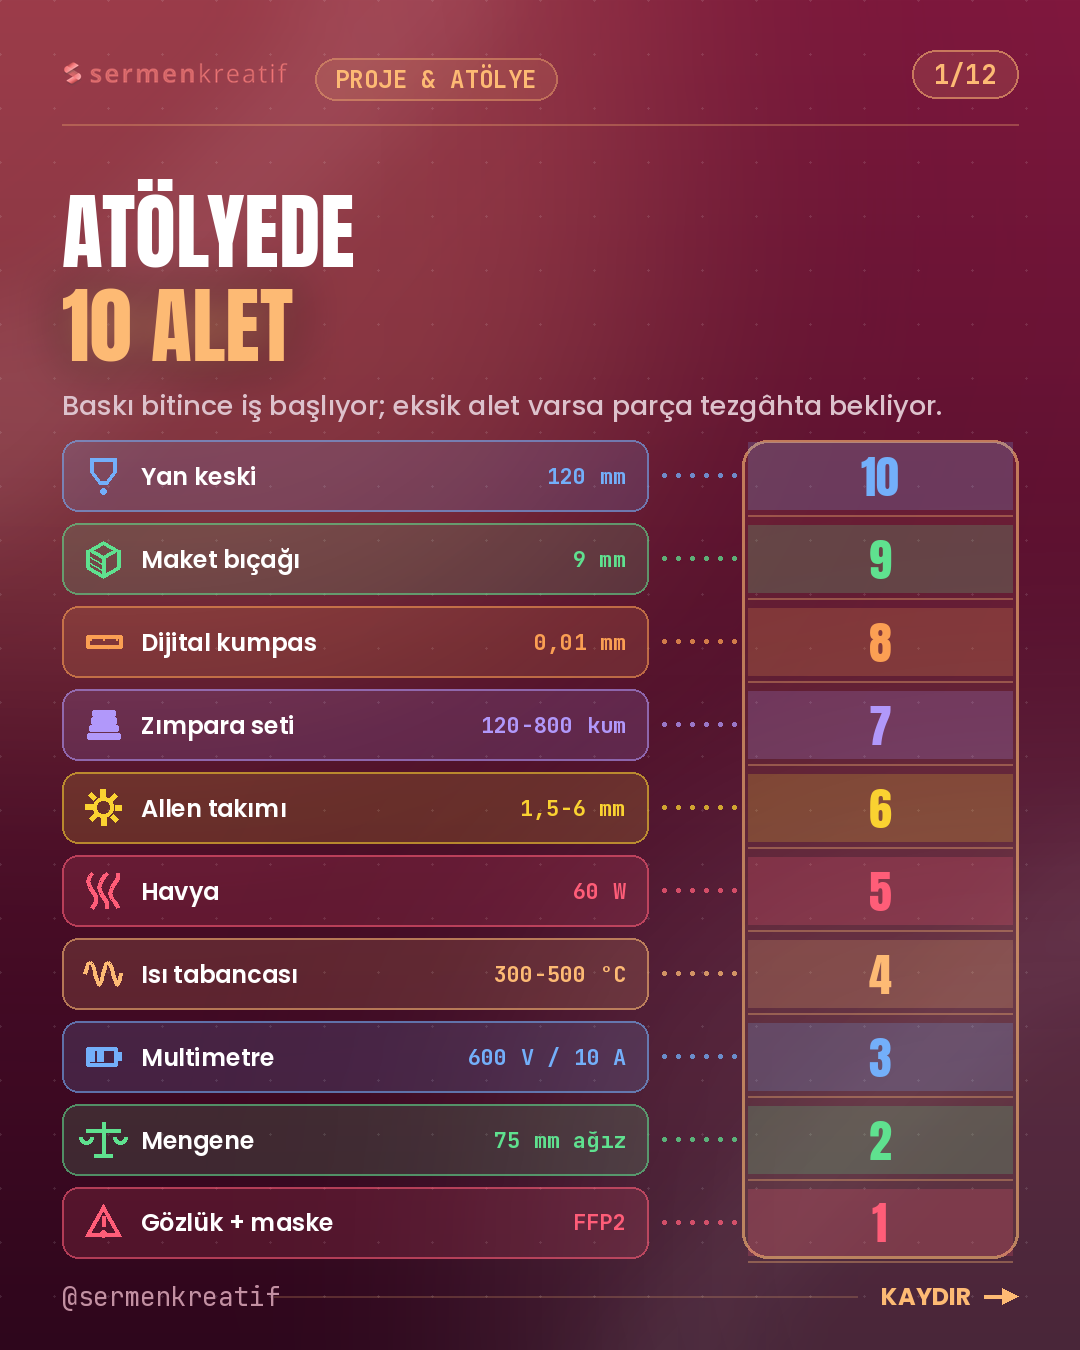
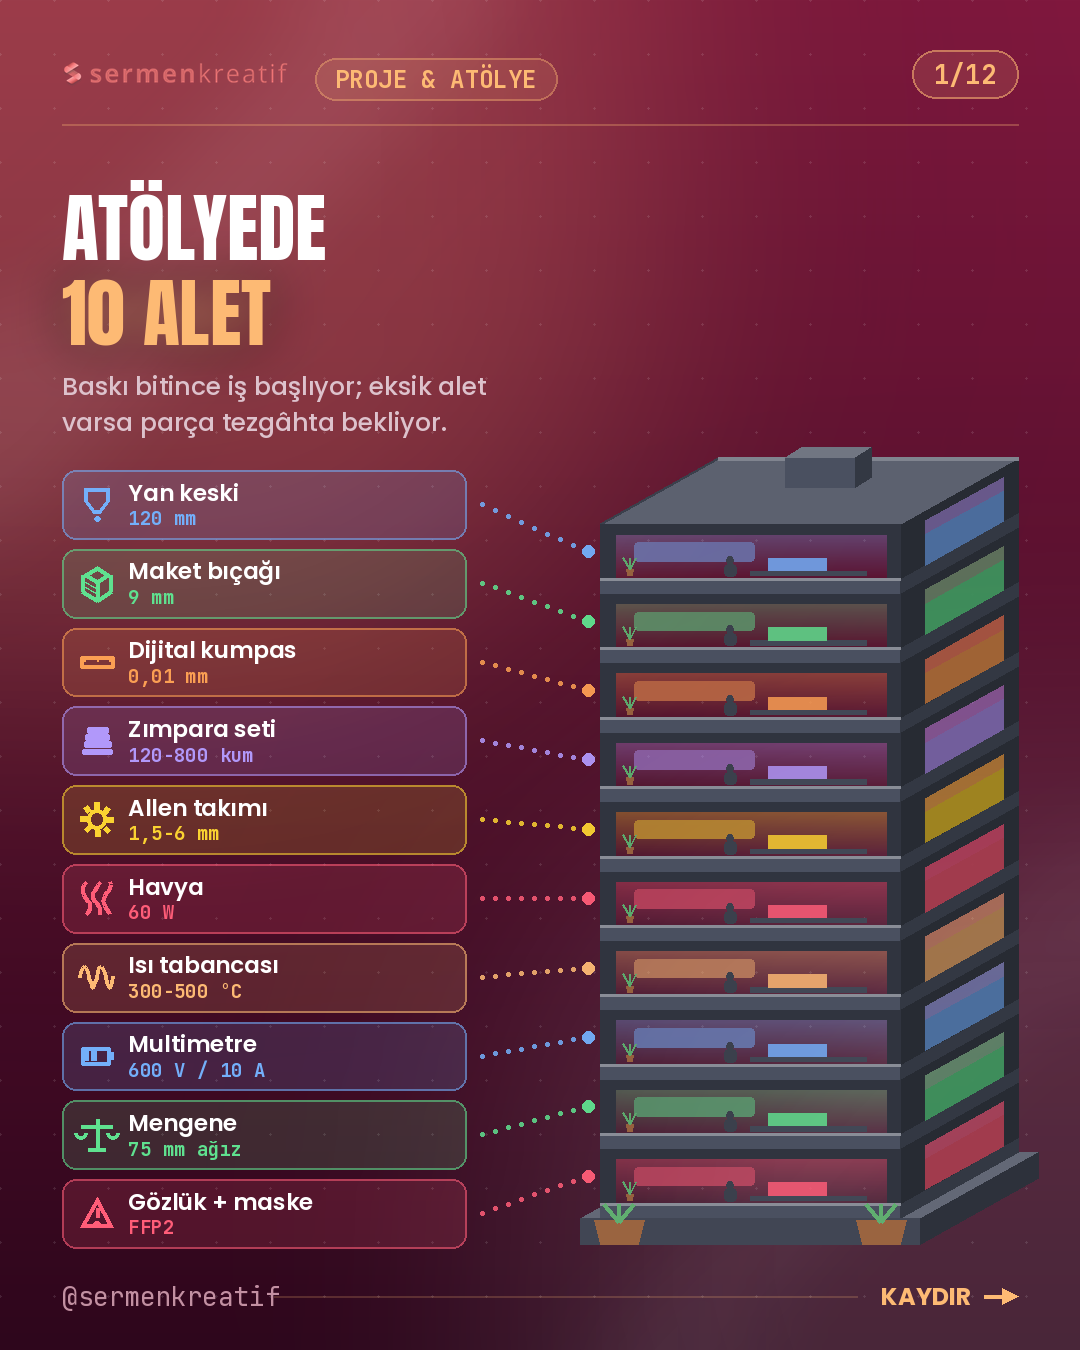
Liste kapaginda kule yerine kesit cepheli bina
Numarali kutu yigini hala tablo gibi duruyordu. Artik gercek bir bina
ciziliyor: cati, yan cephe, kat doseme plakalari, kaide ve saksilar.
Her katin ici o satirin rengiyle aydinlatiliyor, icinde ekran, masa,
oturan siluet ve bitki var; yan cephede ayni katin cam yuzeyi devam
ediyor. Satirlar noktali cizgiyle kendi katina baglaniyor.

Claude-Session: https://claude.ai/code/session_01DAKoXHyqFjWGSzqcjwTyja

diff --git a/uret.py b/uret.py
@@ -1009,91 +1009,219 @@ def kapak_izgara(spec, sayac, yol):
     img.convert("RGB").save(yol)
 
 
+def _bina(img, x0, yust, yalt, katlar, derin_x=118, derin_y=66):
+    """Kesit cepheli bina — her kat kendi rengiyle döşenmiş bir sahne.
+
+    katlar: [(renk, ikon)] üstten alta. x0 ön cephenin sol kenarı.
+    """
+    n = len(katlar)
+    FW = 300                       # ön cephe genişliği
+    x1 = x0 + FW                   # ön cephenin sağ kenarı
+    dx, dy = derin_x, derin_y      # yan yüzey kayması
+    beton = (214, 208, 198) if _mod() == "acik" else (74, 80, 96)
+    beton_ic = _koy(beton, 0.34)
+    cam = (16, 20, 32)
+    kat_h = (yalt - yust) / n
+
+    def kirik(g, pts, renk):
+        g.polygon(pts, fill=renk)
+
+    lay = Image.new("RGBA", img.size, (0, 0, 0, 0))
+    g = ImageDraw.Draw(lay)
+
+    # --- kaidenin üst yüzeyi (bina bunun üstüne oturuyor)
+    kirik(g, [(x0 - 20, yalt), (x1 + 20, yalt), (x1 + 20 + dx, yalt - dy),
+              (x0 - 20 + dx, yalt - dy)], _kar(beton, 0.14) + (255,))
+
+    # --- yan yüzey (tüm bina boyunca tek parça)
+    kirik(g, [(x1, yust), (x1 + dx, yust - dy),
+              (x1 + dx, yalt - dy), (x1, yalt)], _koy(beton, 0.46) + (255,))
+    # --- çatı
+    kirik(g, [(x0, yust), (x1, yust), (x1 + dx, yust - dy),
+              (x0 + dx, yust - dy)], _kar(beton, 0.10) + (255,))
+    # çatı parapeti
+    g.line([(x0, yust), (x0 + dx, yust - dy)], fill=_koy(beton, 0.2) + (255,),
+           width=3)
+    g.line([(x0 + dx, yust - dy), (x1 + dx, yust - dy)],
+           fill=_kar(beton, 0.3) + (255,), width=4)
+    # çatı üstü ünite
+    ux = x0 + dx * 0.45 + FW * 0.44
+    uy = yust - dy * 0.55
+    g.rectangle([ux, uy - 30, ux + 70, uy], fill=beton + (255,))
+    kirik(g, [(ux, uy - 30), (ux + 70, uy - 30), (ux + 86, uy - 40),
+              (ux + 16, uy - 40)], _kar(beton, 0.22) + (255,))
+    kirik(g, [(ux + 70, uy - 30), (ux + 86, uy - 40), (ux + 86, uy - 10),
+              (ux + 70, uy)], _koy(beton, 0.3) + (255,))
+
+    # --- ön cephe gövdesi
+    g.rectangle([x0, yust, x1, yalt], fill=beton_ic + (255,))
+
+    for i, (col, ad) in enumerate(katlar):
+        ky0 = yust + i * kat_h
+        ky1 = ky0 + kat_h
+        ic0, ic1 = ky0 + kat_h * 0.16, ky1 - kat_h * 0.20   # oda boşluğu
+        oda_h = ic1 - ic0
+
+        # oda — koyu cam, üstten sıcak ışık
+        g.rectangle([x0 + 16, ic0, x1 - 14, ic1], fill=cam + (255,))
+        for t in range(int(oda_h)):
+            o = 0.30 * (1 - t / max(1, oda_h))
+            g.line([(x0 + 16, ic0 + t), (x1 - 14, ic0 + t)],
+                   fill=a(col, o))
+
+        # arka duvarda renkli ekran paneli
+        ex0 = x0 + 34
+        ew = FW * 0.40
+        g.rounded_rectangle([ex0, ic0 + oda_h * 0.16, ex0 + ew,
+                             ic0 + oda_h * 0.58], radius=4, fill=a(col, 0.55))
+
+        # masa + monitör + oturan siluet
+        mz = ic1 - oda_h * 0.08
+        g.rectangle([x1 - 150, mz - oda_h * 0.10, x1 - 34, mz],
+                    fill=_koy(beton, 0.1) + (255,))
+        g.rectangle([x1 - 132, mz - oda_h * 0.40, x1 - 74,
+                     mz - oda_h * 0.12], fill=a(col, 0.85))
+        kx = x1 - 170
+        g.ellipse([kx - oda_h * 0.09, mz - oda_h * 0.44,
+                   kx + oda_h * 0.09, mz - oda_h * 0.26],
+                  fill=_koy(beton, 0.2) + (255,))
+        g.rounded_rectangle([kx - oda_h * 0.13, mz - oda_h * 0.28,
+                             kx + oda_h * 0.13, mz], radius=4,
+                            fill=_koy(beton, 0.2) + (255,))
+
+        # saksı
+        px = x0 + 30
+        g.polygon([(px - oda_h * 0.08, mz - oda_h * 0.14),
+                   (px + oda_h * 0.08, mz - oda_h * 0.14),
+                   (px + oda_h * 0.06, mz), (px - oda_h * 0.06, mz)],
+                  fill=(150, 96, 62) + (255,))
+        for ac in (-0.9, 0, 0.9):
+            g.line([(px, mz - oda_h * 0.14),
+                    (px + ac * oda_h * 0.16, mz - oda_h * 0.40)],
+                   fill=(92, 168, 108) + (255,), width=max(2, int(oda_h * 0.05)))
+
+        # döşeme plakası — ön kenar + yan yüzeyde devamı
+        g.rectangle([x0, ic1, x1, ky1], fill=beton + (255,))
+        kirik(g, [(x1, ic1), (x1 + dx, ic1 - dy),
+                  (x1 + dx, ky1 - dy), (x1, ky1)], _koy(beton, 0.3) + (255,))
+        g.line([(x0, ic1), (x1, ic1)], fill=_kar(beton, 0.35) + (255,), width=3)
+
+        # yan yüzeyde aynı katın penceresi
+        oran = 0.22
+        px0 = x1 + dx * oran
+        px1 = x1 + dx * 0.88
+        py = lambda yy, t: yy - dy * t
+        kirik(g, [(px0, py(ic0, oran)), (px1, py(ic0, 0.88)),
+                  (px1, py(ic1, 0.88)), (px0, py(ic1, oran))],
+              a(_koy(col, 0.35), 0.95))
+        kirik(g, [(px0, py(ic0, oran)), (px1, py(ic0, 0.88)),
+                  (px1, py(ic0 + (ic1 - ic0) * 0.30, 0.88)),
+                  (px0, py(ic0 + (ic1 - ic0) * 0.30, oran))],
+              a(col, 0.45))
+
+    # --- kaidenin ön ve yan yüzü
+    g.rectangle([x0 - 20, yalt, x1 + 20, yalt + 26],
+                fill=_koy(beton, 0.12) + (255,))
+    kirik(g, [(x1 + 20, yalt), (x1 + 20 + dx, yalt - dy),
+              (x1 + 20 + dx, yalt - dy + 26), (x1 + 20, yalt + 26)],
+          _koy(beton, 0.38) + (255,))
+    # kaidede saksılar
+    for sx in (x0 - 4, x1 - 42):
+        g.polygon([(sx - 2, yalt + 2), (sx + 48, yalt + 2),
+                   (sx + 42, yalt + 26), (sx + 4, yalt + 26)],
+                  fill=(154, 100, 64) + (255,))
+        for ac in (-1, 0, 1):
+            g.line([(sx + 23, yalt + 4), (sx + 23 + ac * 15, yalt - 14)],
+                   fill=(96, 174, 112) + (255,), width=4)
+
+    img.alpha_composite(lay)
+    return x1 + dx
+
+
 def kapak_liste(spec, sayac, yol):
-    """Solda ikonlu liste, sağda katlı kule — her satır kendi katına bağlı."""
+    """Solda ikonlu liste, sağda kesit cepheli bina — satırlar katlara bağlı."""
     img = base()
     chrome(img, sayac, kaydir=True)
     d = ImageDraw.Draw(img)
 
     s1, s2 = spec["satir1"], spec["satir2"]
-    f = fit(d, max(s1, s2, key=len), anton, 956, 84)
-    y = 168
+    f = fit(d, max(s1, s2, key=len), anton, 600, 76)
+    y = 170
     img.alpha_composite(glow((W, H), lambda g: g.text(
         (GUT, y + f.size * 1.12), s2, font=f, fill=a(AC(), ISIK(0.8)),
         anchor="la"), 24))
     d = ImageDraw.Draw(img)
     d.text((GUT, y), s1, font=f, fill=FG(), anchor="la")
     d.text((GUT, y + f.size * 1.12), s2, font=f, fill=AC(), anchor="la")
-    ust = d.textbbox((GUT, y + f.size * 1.12), s2, font=f, anchor="la")[3] + 24
+    ust = d.textbbox((GUT, y + f.size * 1.12), s2, font=f, anchor="la")[3] + 22
     if spec.get("spot"):
-        fs = pop(27, "Medium")
-        for ln in wrap(d, P(spec["spot"]), fs, 956)[:2]:
+        fs = pop(25, "Medium")
+        for ln in wrap(d, P(spec["spot"]), fs, 470)[:3]:
             d.text((GUT, ust), ln, font=fs, fill=FG2(), anchor="la")
-            ust += 40
-        ust += 14
+            ust += 36
+        ust += 12
 
     satirlar = spec["satirlar"][:10]
     n = len(satirlar)
-    alt = 1258
-    ara = 12 if n > 7 else 16
+    alt = 1248
+    ust = max(ust, 470)
+    ara = 10 if n > 7 else 14
     yuk = (alt - ust - ara * (n - 1)) / n
 
-    SOL, SAG = GUT, 648           # liste sütunu
-    KUL_X0, KUL_X1 = 742, RIGHT   # kule
+    SOL, SAG = GUT, 466           # liste sütunu
+    BINA_X = 600                  # ön cephenin sol kenarı
 
     renkler = [KC(RENKLER.get(r.get("renk", "tema"), ACC))
                if r.get("renk", "tema") != "tema" else AC()
                for r in satirlar]
 
-    # kule gövdesi
-    over(img, lambda g: g.rounded_rectangle(
-        [KUL_X0, ust, KUL_X1, alt], radius=26, fill=a(AC(), 0.07),
-        outline=a(AC(), _P("kontur_op", 0.55)), width=3))
+    # --- bina
+    _bina(img, BINA_X, ust + 54, alt - 30,
+          [(c, r.get("ikon")) for c, r in zip(renkler, satirlar)])
 
-    fe = pop(max(20, min(27, int(yuk * 0.34))), "SemiBold")
-    fd = mono(max(19, min(26, int(yuk * 0.31))), True)
+    fe = pop(max(18, min(25, int(yuk * 0.34))), "SemiBold")
+    fd = mono(max(16, min(23, int(yuk * 0.29))), True)
+    kat_h = (alt - 30 - ust - 54) / n
 
     for i, (r, col) in enumerate(zip(satirlar, renkler)):
         ry = ust + i * (yuk + ara)
         cy = ry + yuk / 2
+        kat_y = ust + 54 + (i + 0.40) * kat_h   # katın pencere hizası
 
         # --- liste satırı
         over(img, lambda g, t=ry, c=col: g.rounded_rectangle(
-            [SOL, t, SAG, t + yuk], radius=16, fill=a(c, _P("kart_op", 0.09)),
+            [SOL, t, SAG, t + yuk], radius=14, fill=a(c, _P("kart_op", 0.09)),
             outline=a(c, _P("kontur_op", 0.55)), width=2))
         d = ImageDraw.Draw(img)
         isim = P(r["etiket"])
         deger = P(r.get("deger", ""))
-        dw = d.textlength(deger, font=fd) if deger else 0
-        ikx = SOL + 26 + yuk * 0.22
+        ikx = SOL + 20 + yuk * 0.22
         if r.get("ikon"):
-            ikon(d, r["ikon"], ikx, cy, yuk * 0.52, col)
-            tx = ikx + yuk * 0.30 + 16
+            ikon(d, r["ikon"], ikx, cy, yuk * 0.50, col)
+            tx = ikx + yuk * 0.28 + 12
         else:
-            tx = SOL + 26
+            tx = SOL + 20
         fi = fe
-        while (d.textlength(isim, font=fi) > SAG - 24 - dw - tx
-               and fi.size > 17):
+        while d.textlength(isim, font=fi) > SAG - 16 - tx and fi.size > 15:
             fi = pop(fi.size - 1, "SemiBold")
-        d.text((tx, cy), isim, font=fi, fill=FG(), anchor="lm")
         if deger:
-            d.text((SAG - 22, cy), deger, font=fd, fill=col, anchor="rm")
+            d.text((tx, cy - yuk * 0.17), isim, font=fi, fill=FG(),
+                   anchor="lm")
+            d.text((tx, cy + yuk * 0.20), deger, font=fd, fill=col,
+                   anchor="lm")
+        else:
+            d.text((tx, cy), isim, font=fi, fill=FG(), anchor="lm")
 
-        # --- bağlantı çizgisi
-        over(img, lambda g, c=col, m=cy: [
-            g.ellipse([x, m - 2, x + 4, m + 2], fill=a(c, 0.75))
-            for x in range(SAG + 14, KUL_X0 - 8, 14)])
-
-        # --- kule katı
-        ky0, ky1 = ry + 2, ry + yuk - 2
-        over(img, lambda g, c=col, p0=ky0, p1=ky1: (
-            g.rectangle([KUL_X0 + 6, p0, KUL_X1 - 6, p1], fill=a(c, 0.20)),
-            g.line([(KUL_X0 + 6, p1 + ara / 2), (KUL_X1 - 6, p1 + ara / 2)],
-                   fill=a(AC(), 0.35), width=2)))
-        d = ImageDraw.Draw(img)
-        fn = anton(int(min(yuk * 0.66, 64)))
-        d.text(((KUL_X0 + KUL_X1) / 2, cy), str(n - i), font=fn, fill=col,
-               anchor="mm")
+        # --- satırı kendi katına bağlayan noktalı çizgi
+        x_bas, x_son = SAG + 14, BINA_X - 16
+        acik = max(1, x_son - x_bas)
+        over(img, lambda g, c=col, y0=cy, y1=kat_y, xb=x_bas, aa=acik: (
+            [g.ellipse([x, y0 + (y1 - y0) * (x - xb) / aa - 2,
+                        x + 4, y0 + (y1 - y0) * (x - xb) / aa + 2],
+                       fill=a(c, 0.85))
+             for x in range(xb, x_son, 13)],
+            g.ellipse([x_son - 2, y1 - 6, x_son + 10, y1 + 6],
+                      fill=a(c, 0.95))))
 
     img.convert("RGB").save(yol)
 

diff --git a/SEMA.md b/SEMA.md
@@ -42,7 +42,7 @@ Slaytta `cizim` veya `tablo` yoksa kapaktaki görsel kullanılır, yalnız `vurg
 - **`rakam`** — dev sayı kapağı. `ustbilgi` (küçük üst etiket), `rakam` (dev metin: `%15`, `4,7 kΩ`, `0,2 mm`), `rakam_alt` (ne anlama geldiği), `spot`.
 - **`carpisma`** — çapraz bölünmüş karşılaştırma. `satir1`, `satir2`, `sol_etiket`, `sag_etiket`, `sol_metin`, `sag_metin`, `spot`.
 - **`yakin`** — çizim büyütülüp kenarlardan taşırılır. `satir1`, `satir2`, `spot`, ayrıca `cizim`/`tablo` ve `vurgu`.
-- **`liste`** — sıralı liste. `satir1`, `satir2`, `spot`, `satirlar`. Her satır: `etiket`, `deger`, `ikon`, `renk`. Solda ikonlu satırlar, sağda katlı kule; her satır noktalı çizgiyle kendi katına bağlanıyor, katlarda sıra numarası yazıyor. 5-10 satır. "N tane şey" gönderilerinin kapağı bu.
+- **`liste`** — sıralı liste. `satir1`, `satir2`, `spot`, `satirlar`. Her satır: `etiket`, `deger`, `ikon`, `renk`. Solda ikonlu satırlar, sağda kesit cepheli bir bina; her satır noktalı çizgiyle kendi katına bağlanıyor. Katların içi döşeli (ekran, masa, oturan siluet, saksı) ve her kat o satırın rengiyle aydınlatılıyor. 5-10 satır. "N tane şey" gönderilerinin kapağı bu.
 - **`izgara`** — kopya kâğıdı. `satir1`, `satir2`, `spot`, `kartlar`. Her kart: `etiket` (küçük başlık), `deger` (dev sarı rakam), `alt` (bir iki satır açıklama), `renk`, `ikon`, isteğe bağlı `durum` (`dogru` / `yanlis` rozeti) ve `genis` (tam satır kaplar).
 
 Simge listesi: `katman` (katman yığını) · `nozzle` · `makara` (filament makarası) · `kup` (dolgulu küp) · `isi` (ısı dalgaları) · `hiz` · `duvar` (iç içe duvarlar) · `tabla` (ısıtıcı tabla) · `uyari` · `zaman` · `cip` (IC) · `pil` · `dalga` (sinyal) · `damla` · `terazi` (karşılaştırma) · `dis` (dişli) · `olcu` (cetvel) · `soru`
